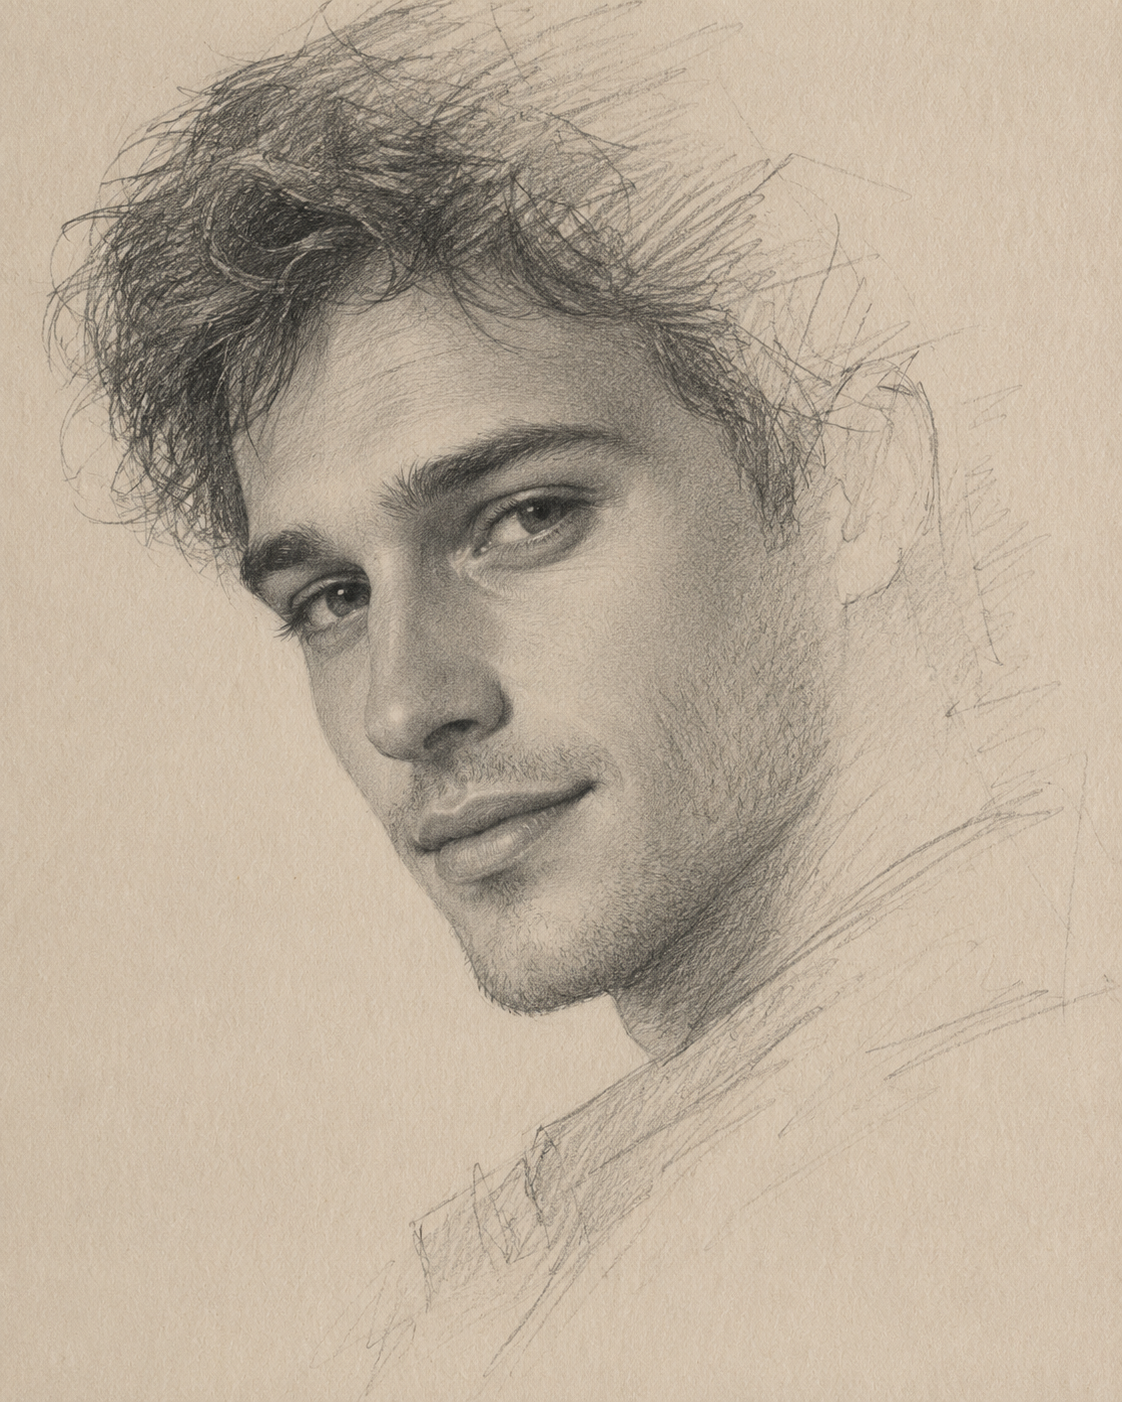
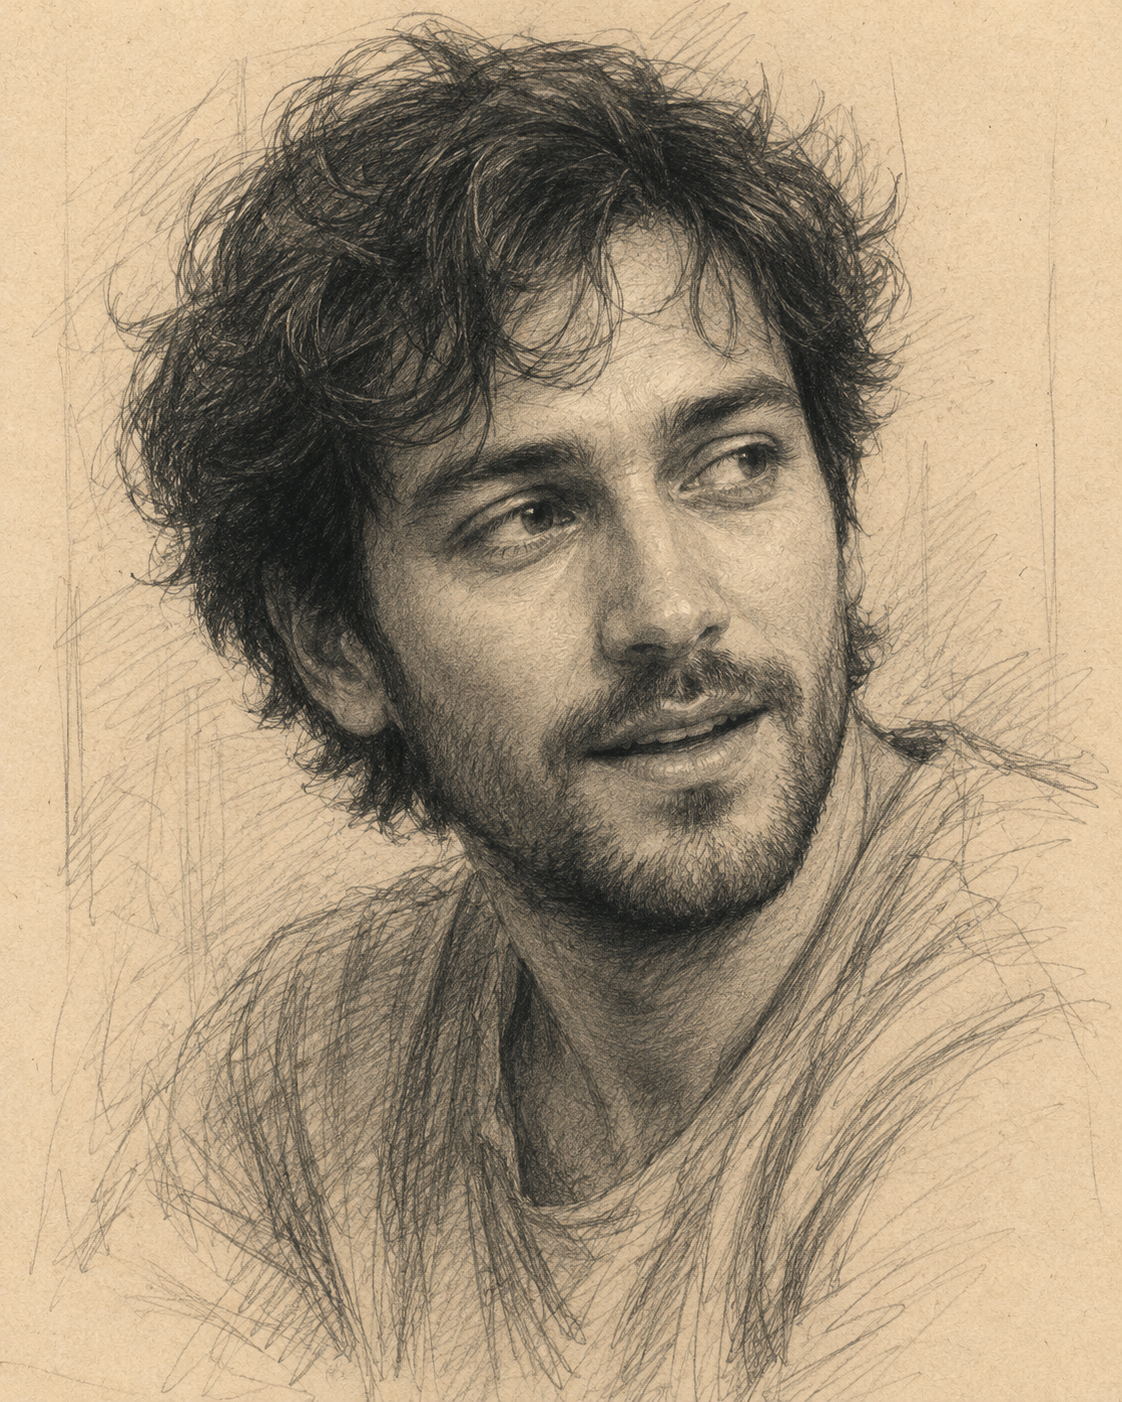
Add files via upload

diff --git a/index.html b/index.html
@@ -107,9 +107,9 @@
     font-family: 'Lora', serif;
     letter-spacing: 3px;
     text-transform: uppercase;
-    font-size: 12px;
-    font-weight: 600;
-    color: var(--accent-dark);
+    font-size: 13px;
+    font-weight: 700;
+    color: #7a3f68;
     margin: 0 0 18px;
   }
   .hero h1 {
@@ -146,9 +146,10 @@
   }
   .sketch-caption {
     font-family: 'Lora', serif;
-    font-size: 13px;
+    font-size: 15px;
     font-style: italic;
-    color: var(--muted);
+    font-weight: 500;
+    color: #6b5760;
     text-align: center;
     margin: 0;
   }
@@ -184,13 +185,8 @@
     margin: 8px 10px 0 0;
   }
 
-  /* warm emphasis + soft highlighter marks for key moments */
+  /* warm emphasis for key moments */
   em { color: var(--accent-dark); font-style: italic; }
-  mark {
-    background: linear-gradient(180deg, transparent 58%, rgba(216, 168, 90, 0.4) 58%);
-    color: inherit;
-    padding: 0 1px;
-  }
 
   .pullquote {
     font-style: italic;
@@ -368,18 +364,20 @@
   .secondary-cta {
     display: inline-block;
     font-family: 'Lora', serif;
-    font-weight: 600;
-    font-size: 15px;
-    color: var(--accent-dark);
-    border: 2px solid var(--accent);
-    padding: 12px 30px;
+    font-weight: 700;
+    font-size: 16px;
+    color: #2c1e3d;
+    background: linear-gradient(135deg, #f3c98b, #d8a85a);
+    border: none;
+    padding: 15px 36px;
     border-radius: 50px;
     text-decoration: none;
-    transition: all 0.2s ease;
+    box-shadow: 0 8px 24px rgba(216, 168, 90, 0.4);
+    transition: transform 0.2s ease, box-shadow 0.2s ease;
   }
   .secondary-cta:hover {
-    background: var(--accent);
-    color: #fff;
+    transform: translateY(-2px);
+    box-shadow: 0 12px 28px rgba(216, 168, 90, 0.5);
   }
 
   /* ---------- FOOTER ---------- */
@@ -494,8 +492,8 @@
       looking straight at the "camera." He was looking just off to the side, like something had
       caught his attention a second before, half a smile on his face, like he was about to
       laugh at something. It felt less like a portrait and more like someone had been caught
-      mid-thought. I remember thinking, <em>that's such a weirdly specific way to draw a
-      stranger.</em>
+      mid-thought. I remember thinking, that's such a weirdly specific way to draw a
+      stranger.
     </p>
 
     <p>I saved it, half-believing, half not, and went on with my life. Honestly, I mostly forgot about it.</p>
@@ -515,7 +513,7 @@
 
     <p>
       I'm not going to pretend I didn't notice. I felt it before I could even think about it —
-      <mark>that small, strange jolt, like déjà vu but sharper</mark>.
+      that small, strange jolt, like déjà vu but sharper.
     </p>
 
     <h2>The part I keep coming back to</h2>
@@ -531,7 +529,7 @@
 
     <p>
       Because a face — drawn or real — isn't actually the thing I'm looking for. What I'm
-      looking for is <mark>someone who's kind when no one's watching</mark>. Someone whose
+      looking for is someone who's kind when no one's watching. Someone whose
       values line up with mine when it actually counts, not just on a good day. Someone who,
       when I'm not in the room, is still thinking about the conversation we had — the same way
       I find myself thinking about his.
@@ -545,7 +543,7 @@
     </p>
 
     <p>
-      I don't know how this one ends. Maybe it's nothing. <mark>Maybe it's something.</mark>
+      I don't know how this one ends. Maybe it's nothing. Maybe it's something.
       I'll probably write about it again either way, because at this point you're all kind of
       invested too, aren't you?
     </p>